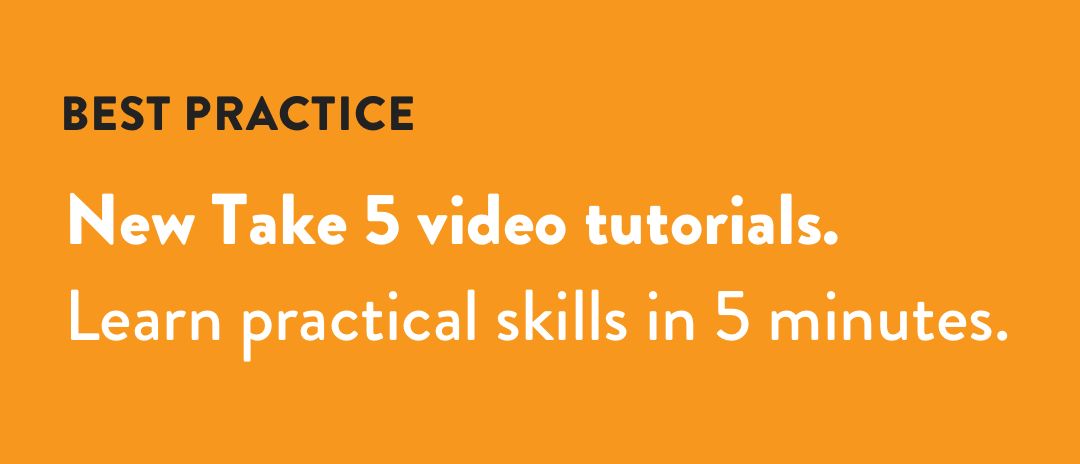
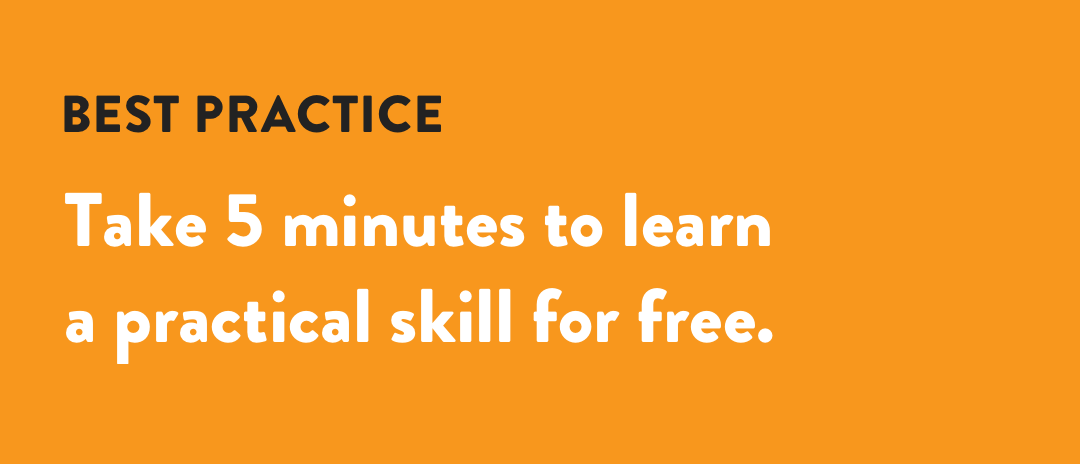
Update Take 5 launch emails
- Update initial sent email
- Update resent email

Changed region(s): [[0.0611, 0.6034, 0.9472, 0.7845], [0.0611, 0.3922, 0.7944, 0.5431], [0.0611, 0.181, 0.4278, 0.3017]]

diff --git a/gym-emails/take5-launch-resend-email/index.html b/gym-emails/take5-launch-resend-email/index.html
@@ -5,11 +5,11 @@
 <meta http-equiv="x-ua-compatible" content="ie=edge">
 <meta name="viewport" content="width=device-width, initial-scale=1, shrink-to-fit=no">
 <meta name="format-detection" content="telephone=no">
-<title>Resend Subject Line Goes Here</title>
+<title>Take 5 Minutes to Master a New Skill</title>
 <meta name="author" content="Aquent Gymnasium">
 </head>
 <body bgcolor="#ebebeb" style="width: 100%; font-family: sans-serif; font-size: 100%; background-color: #ebebeb; padding: 0; margin: 0; -webkit-text-size-adjust: 100%;">
-<div class="preheader-text" style="display: none !important; font-family: sans-serif; font-size: 1px; line-height: 1px; color: #ebebeb; text-align: center; max-height: 0; max-width: 0; padding: 0; margin: 0; opacity: 0; overflow: hidden; mso-hide: all;">⏰ Watch and Learn with Take 5 Tutorials.</div>
+<div class="preheader-text" style="display: none !important; font-family: sans-serif; font-size: 1px; line-height: 1px; color: #ebebeb; text-align: center; max-height: 0; max-width: 0; padding: 0; margin: 0; opacity: 0; overflow: hidden; mso-hide: all;">⏰ Watch and Learn.</div>
 <style>
 body {width: 100%; font-family: sans-serif; font-size: 100%; background-color: #ebebeb; padding: 0; margin: 0; -webkit-text-size-adjust: 100%;}
 a {color: #f8971d; text-decoration: underline;}
@@ -26,7 +26,7 @@ table td {padding: 0;}
             <table width="100%" align="center" cellpadding="0" cellspacing="0" border="0" style="border-spacing: 0;" role="presentation">
               <tr>
                 <td align="center" valign="middle" style="padding: 23px 16px 15px;">
-                  <a href="https://thegymnasium.com?utm_source=eloqua&utm_medium=email&utm_campaign=AQ_NA_GYM-take5-launch&utm_content=110419&elqTrack=true" title="Gymnasium Homepage" target="_blank" style="display: inline-block; color: #fffffe; text-decoration: none; outline: 0; cursor: pointer;">
+                  <a href="https://thegymnasium.com?utm_source=eloqua&utm_medium=email&utm_campaign=AQ_NA_GYM-take5-launch&utm_content=111119&elqTrack=true" title="Gymnasium Homepage" target="_blank" style="display: inline-block; color: #fffffe; text-decoration: none; outline: 0; cursor: pointer;">
                     <img role="heading" alt="Gymnasium" width="182" src="http://images.e.aquent.com/EloquaImages/clients/Aquent/%7b9742f9c7-4a30-4fad-a381-8c97c271df48%7d_gymnasium-logo.gif" style="display: block; font-family: 'Helvetica Neue', Helvetica, Arial, 'Droid Sans', sans-serif; font-weight: 400; font-size: 26px; color: #fffffe; letter-spacing: 3px; text-transform: uppercase; max-width: 100%; height: auto; border: 0; -ms-interpolation-mode: bicubic;">
                   </a>
                 </td>
@@ -50,24 +50,33 @@ table td {padding: 0;}
           <td width="5%" style="padding: 0;"></td>
           <td width="540" align="left" valign="top" style="padding: 21px 0;">
           <p style="font-family: 'Helvetica Neue', Helvetica, Arial, 'Droid Sans', sans-serif; font-weight: normal; font-size: 16px; line-height: 22px; color: #222222; padding: 0; margin: 0;">
-          Today we&#8217;re launching <strong style="font-weight: bold;">Take 5 tutorials</strong> &#8212; free video tutorials that cover practical skills in just 5 minutes.
+          <strong style="font-weight: bold;">ICYMI:</strong> We launched <strong style="font-weight: bold;">Take 5</strong> tutorials &#8212; free videos that cover practical skills in just 5 minutes.
           </p>
           <div class="leading-21" style="font-family: monospace, monospace; font-size: 21px; line-height: 21px; padding: 0; margin: 0;"><br></div>
-          <a href="https://thegymnasium.com/take5?utm_source=eloqua&utm_medium=email&utm_campaign=AQ_NA_GYM-take5-launch&utm_content=111119&elqTrack=true" target="_blank" title="Watch and Learn" style="display: block; text-decoration: none; outline: 0; cursor: pointer;">
-           <img alt="Take 5 Tutorials" src="img/gym-take5-launch-best-practice-2x.png" width="540" height="232" style="display: block; font-family: 'Helvetica Neue', Helvetica, Arial, 'Droid Sans', sans-serif; font-size: 24px; font-weight: bold; color: #222222; vertical-align: middle; width: 100%; max-width: 100%; height: auto; border: 1px solid #f8971d; -ms-interpolation-mode: bicubic;">
-          </a>
+          <table width="100%" cellspacing="0" cellpadding="0" border="0" bgcolor="#222222" style="background-color: #222222; border-spacing: 0; border: 1px solid #f8971d;" role="presentation">
+            <tr>
+              <td align="left" valign="top">
+                <a href="https://thegymnasium.com/take5?utm_source=eloqua&utm_medium=email&utm_campaign=AQ_NA_GYM-take5-launch&utm_content=111119&elqTrack=true" target="_blank" title="Watch and Learn" style="display: block; text-decoration: none; outline: 0; cursor: pointer;">
+                 <img alt="Take 5 minutes to learn practical skills." src="img/gym-take5-launch-best-practice-2x.png" width="540" height="232" style="display: block; font-family: 'Helvetica Neue', Helvetica, Arial, 'Droid Sans', sans-serif; font-size: 24px; font-weight: bold; color: #f8971d; vertical-align: middle; width: 100%; max-width: 100%; height: auto; -ms-interpolation-mode: bicubic;">
+                </a>
+              </td>
+            </tr>
+          </table>
           <div class="leading-21" style="font-family: monospace, monospace; font-size: 21px; line-height: 21px; padding: 0; margin: 0;"><br></div>
           <p style="font-family: 'Helvetica Neue', Helvetica, Arial, 'Droid Sans', sans-serif; font-weight: normal; font-size: 16px; line-height: 22px; color: #222222; padding: 0; margin: 0;">
-          To kick things off, we&#8217;ll be dropping a new Take 5 tutorial every day this month with a different theme each week.
+          To kick things off, we&#8217;ve dropped a new video every day with a new theme each week. So far we&#8217;ve released 10+ videos on CSS and prototyping.
           </p>
           <div class="leading-17" style="font-family: monospace, monospace; font-size: 17px; line-height: 17px; padding: 0; margin: 0;"><br></div>
+          <p style="font-family: 'Helvetica Neue', Helvetica, Arial, 'Droid Sans', sans-serif; font-weight: normal; font-size: 16px; line-height: 22px; color: #222222; padding: 0; margin: 0;">
+          Next up:
+          </p>
           <table class="list" width="100%" align="center" cellpadding="0" cellspacing="0" border="0" bgcolor="#fffffe" style="background-color: #fffffe; border-spacing: 0;" role="presentation">
             <tr>
               <td width="16" align="left" valign="top" style="padding: 0 4px 0 0;">
               <p style="font-family: 'Helvetica Neue', Helvetica, Arial, 'Droid Sans', sans-serif; font-weight: normal; font-size: 18px; line-height: 24px; color: #222222; padding: 0; margin: 0;">&#8226;</p>
               </td>
               <td width="520" align="left" valign="top" style="padding: 0;">
-              <p style="font-family: 'Helvetica Neue', Helvetica, Arial, 'Droid Sans', sans-serif; font-weight: normal; font-size: 16px; line-height: 22px; color: #222222; padding: 0; margin: 0;"><b style="font-weight: bold;">Week 1:</b> CSS Image Effects</p>
+              <p style="font-family: 'Helvetica Neue', Helvetica, Arial, 'Droid Sans', sans-serif; font-weight: normal; font-size: 16px; line-height: 22px; color: #222222; padding: 0; margin: 0;"><b style="font-weight: bold;">Career Skills</b> (like storytelling and self-promotion)</p>
               </td>
             </tr>
             <tr>
@@ -75,29 +84,13 @@ table td {padding: 0;}
               <p style="font-family: 'Helvetica Neue', Helvetica, Arial, 'Droid Sans', sans-serif; font-weight: normal; font-size: 18px; line-height: 24px; color: #222222; padding: 0; margin: 0;">&#8226;</p>
               </td>
               <td width="520" align="left" valign="top" style="padding: 11px 0 0;">
-              <p style="font-family: 'Helvetica Neue', Helvetica, Arial, 'Droid Sans', sans-serif; font-weight: normal; font-size: 16px; line-height: 22px; color: #222222; padding: 0; margin: 0;"><b style="font-weight: bold;">Week 2:</b> Prototyping</p>
-              </td>
-            </tr>
-            <tr>
-              <td width="16" align="left" valign="top" style="padding: 11px 4px 0 0;">
-              <p style="font-family: 'Helvetica Neue', Helvetica, Arial, 'Droid Sans', sans-serif; font-weight: normal; font-size: 18px; line-height: 24px; color: #222222; padding: 0; margin: 0;">&#8226;</p>
-              </td>
-              <td width="520" align="left" valign="top" style="padding: 11px 0 0;">
-              <p style="font-family: 'Helvetica Neue', Helvetica, Arial, 'Droid Sans', sans-serif; font-weight: normal; font-size: 16px; line-height: 22px; color: #222222; padding: 0; margin: 0;"><b style="font-weight: bold;">Week 3:</b> Career Skills</p>
-              </td>
-            </tr>
-            <tr>
-              <td width="16" align="left" valign="top" style="padding: 11px 4px 0 0;">
-              <p style="font-family: 'Helvetica Neue', Helvetica, Arial, 'Droid Sans', sans-serif; font-weight: normal; font-size: 18px; line-height: 24px; color: #222222; padding: 0; margin: 0;">&#8226;</p>
-              </td>
-              <td width="520" align="left" valign="top" style="padding: 11px 0 0;">
-              <p style="font-family: 'Helvetica Neue', Helvetica, Arial, 'Droid Sans', sans-serif; font-weight: normal; font-size: 16px; line-height: 22px; color: #222222; padding: 0; margin: 0;"><b style="font-weight: bold;">Week 4:</b> User Research</p>
+              <p style="font-family: 'Helvetica Neue', Helvetica, Arial, 'Droid Sans', sans-serif; font-weight: normal; font-size: 16px; line-height: 22px; color: #222222; padding: 0; margin: 0;"><b style="font-weight: bold;">User Research</b> (from card sorting to writing survey questions)</p>
               </td>
             </tr>
           </table>
           <div class="leading-17" style="font-family: monospace, monospace; font-size: 17px; line-height: 17px; padding: 0; margin: 0;"><br></div>
           <p style="font-family: 'Helvetica Neue', Helvetica, Arial, 'Droid Sans', sans-serif; font-weight: normal; font-size: 16px; line-height: 22px; color: #222222; padding: 0; margin: 0;">
-          What are you waiting for?
+          Trust us &#8212; you do <em style="font-style: italic;">not</em> want to miss this.
           </p>
           <table class="cta" width="100%" align="center" cellpadding="0" cellspacing="0" border="0" bgcolor="#fffffe" style="background-color: #fffffe; border-spacing: 0;" role="presentation">
             <tr>
@@ -131,7 +124,7 @@ table td {padding: 0;}
             <table width="100%" align="center" cellpadding="0" cellspacing="0" border="0" style="border-spacing: 0;" role="presentation">
               <tr>
                 <td align="center" valign="middle" style="padding: 23px 16px 9px;">
-                  <a href="https://thegymnasium.com?utm_source=eloqua&utm_medium=email&utm_campaign=AQ_NA_GYM-take5-launch&utm_content=110419&elqTrack=true" title="Gymnasium Homepage" target="_blank" style="display: inline-block; color: #fffffe; text-decoration: none; outline: 0; cursor: pointer;">
+                  <a href="https://thegymnasium.com?utm_source=eloqua&utm_medium=email&utm_campaign=AQ_NA_GYM-take5-launch&utm_content=111119&elqTrack=true" title="Gymnasium Homepage" target="_blank" style="display: inline-block; color: #fffffe; text-decoration: none; outline: 0; cursor: pointer;">
                     <img alt="Gymnasium" width="182" src="http://images.e.aquent.com/EloquaImages/clients/Aquent/%7b9742f9c7-4a30-4fad-a381-8c97c271df48%7d_gymnasium-logo.gif" style="display: block; font-family: 'Helvetica Neue', Helvetica, Arial, 'Droid Sans', sans-serif; font-weight: 400; font-size: 26px; color: #fffffe; letter-spacing: 3px; text-transform: uppercase; max-width: 100%; height: auto; border: 0; -ms-interpolation-mode: bicubic;">
                   </a>
                 </td>
@@ -179,7 +172,7 @@ table td {padding: 0;}
                   <address class="vcard" style="font-style: normal; line-height: 16px; margin: 0; padding: 0;">
                     <b class="all-caps org" style="font-family: 'Helvetica Neue', Helvetica, Arial, 'Droid Sans', sans-serif; font-weight: bold; font-size: 12px; line-height: 16px; color: #b0b0b0; letter-spacing: 1px; text-transform: uppercase; padding: 0; margin: 0;">Aquent Gymnasium</b>
                     <div class="leading-13" style="font-family: Courier, monospace; font-size: 13px; line-height: 13px; padding: 0; margin: 0;"><br></div>
-                    <a target="_blank" href="https://thegymnasium.com?utm_source=eloqua&utm_medium=email&utm_campaign=AQ_NA_GYM-take5-launch&utm_content=110419&elqTrack=true" style="font-family: 'Helvetica Neue', Helvetica, Arial, 'Droid Sans', sans-serif; font-size: 12px; line-height: 18px; color: #f8971d !important; text-decoration: underline !important;"><span style="color: #f8971d;">thegymnasium.com</span></a>
+                    <a target="_blank" href="https://thegymnasium.com?utm_source=eloqua&utm_medium=email&utm_campaign=AQ_NA_GYM-take5-launch&utm_content=111119&elqTrack=true" style="font-family: 'Helvetica Neue', Helvetica, Arial, 'Droid Sans', sans-serif; font-size: 12px; line-height: 18px; color: #f8971d !important; text-decoration: underline !important;"><span style="color: #f8971d;">thegymnasium.com</span></a>
                     <div class="leading-9" style="font-family: Courier, monospace; font-size: 9px; line-height: 9px; padding: 0; margin: 0;"><br></div>
                     <div class="adr" style="color: #b0b0b0; padding: 0; margin: 0;">
                     <div class="street-address" style="padding: 0; margin: 0;"><a href="" style="font-family: 'Helvetica Neue', Helvetica, Arial, 'Droid Sans', sans-serif; font-size: 12px; line-height: 18px; color: #b0b0b0 !important; text-decoration: none !important; cursor: text; padding: 0; margin: 0;"><span style="color: #b0b0b0; text-decoration: none;">501 Boylston Street, 3rd Floor</span></a></div>

diff --git a/gym-emails/take5-launch-email/index.html b/gym-emails/take5-launch-email/index.html
@@ -114,7 +114,7 @@ table td {padding: 0;}
                       <a href="https://thegymnasium.com/take5?utm_source=eloqua&utm_medium=email&utm_campaign=AQ_NA_GYM-take5-launch&utm_content=102819&elqTrack=true" target="_blank" style="display: inline-block; color: #fffffe; text-decoration: none; outline: 0; cursor: pointer;">
                         <span class="chunky-nbsp;" style="font-size: 15px; line-height: 15px; font-family: Courier, monospace;">&nbsp;</span>
                            <div style="line-height: 16px; margin: 0 32px;">
-                            <b style="font-weight: bold; font-size: 20px; line-height: 26px; font-family: 'Helvetica Neue', Helvetica, Arial, 'Droid Sans', sans-serif; color: #fffffe; vertical-align: middle;">Watch and Learn</span></b>
+                            <b style="font-weight: bold; font-size: 20px; line-height: 26px; font-family: 'Helvetica Neue', Helvetica, Arial, 'Droid Sans', sans-serif; color: #fffffe; vertical-align: middle;">Watch and Learn</b>
                           </div>
                         <span class="chunky-nbsp;" style="font-size: 21px; line-height: 21px; font-family: Courier, monospace;">&nbsp;</span>
                       </a>
